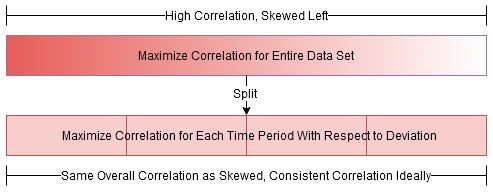
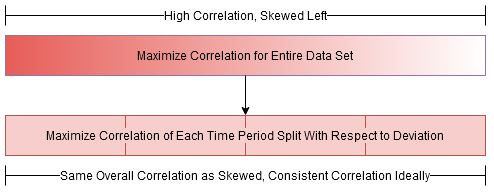
Updates

diff --git a/README.md b/README.md
@@ -48,7 +48,7 @@ The following chart shows that of the top 10 strongest correlated indicators, 5 
 
 TuneTA supports the optimization of parameters over an entire dataset or split into multiple time periods.  Technical indicators may not perform consistently across larger time frames due to market fluctuation.  Optimizing technical indicators over distinct time periods can help avoid correlation skew while providing insight into inconsistent performance.  TuneTA uses multi-objective optimization (pareto optimal) to maximize correlation in each time period with respect to deviation.
 
-The figure below illustrates the possibility of achieving high indicator correlation at the expense of inconsistency across the entire dataset (initial high correlation attenuating over time).  Splitting the dataset into parts and maximizing each split with the same set of parameters could potentially provide "smoothed" correlation.  Note, indicator parameters do not differ across splits, rather tuneta tries to select parameter(s) which provide maximum correlation to the target while minimizing deviation of all splits.
+The figure below illustrates the possibility of achieving high indicator correlation at the expense of inconsistency across the entire dataset (initial high correlation attenuating over time).  Splitting the dataset into parts and maximizing each split with the same set of parameters could potentially provide "smoothed" consistent correlation.  Note, indicator parameters do not differ across splits, rather tuneta tries to select parameter(s) which provide maximum correlation to the target while minimizing deviation of all splits.
 
 <p align="center">
   <a href="https://github.com/jmrichardson/tuneta">
